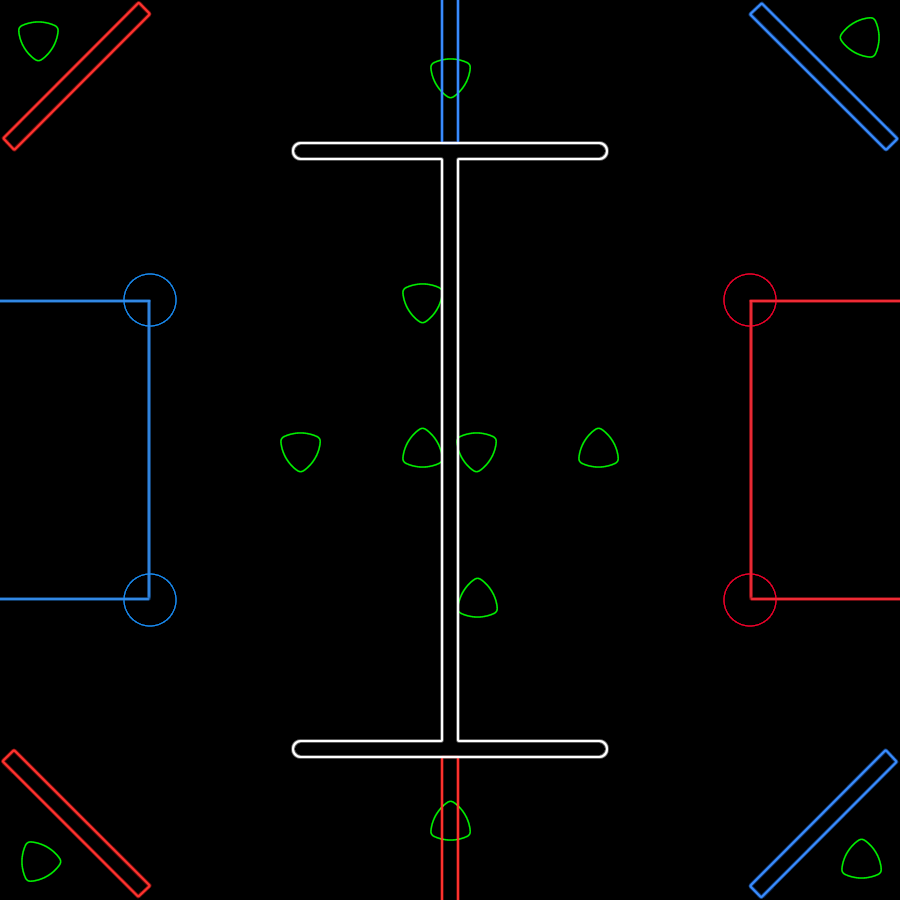
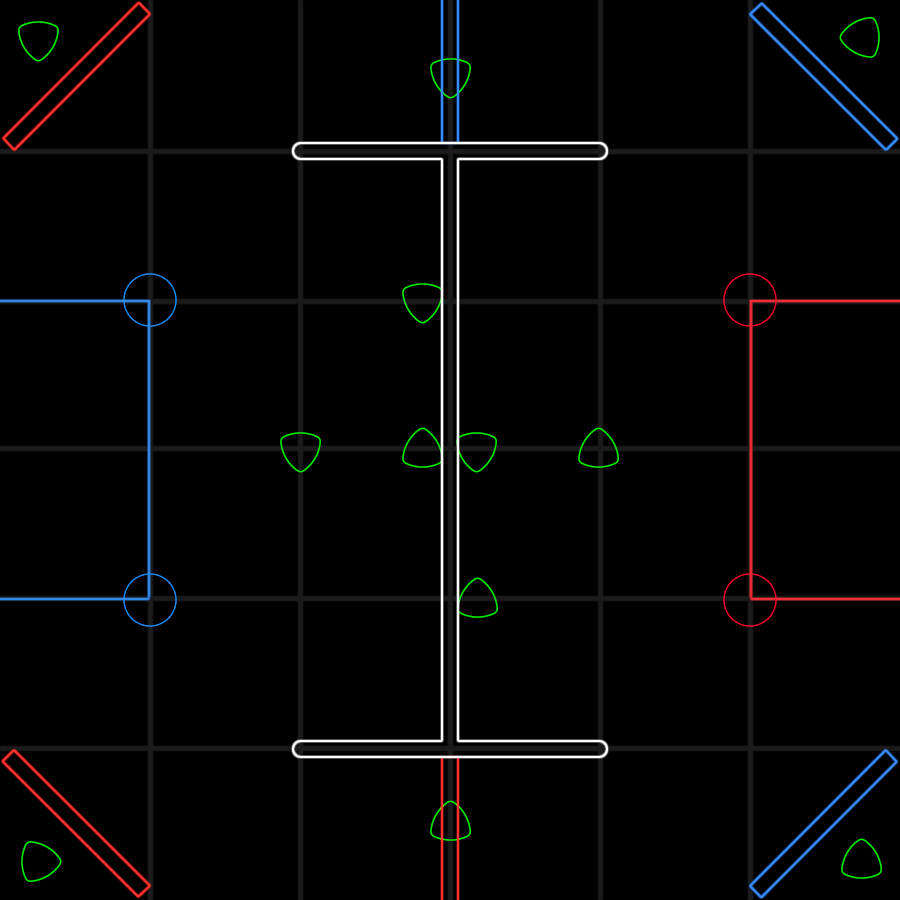
bot starting position working

diff --git a/main.py b/main.py
@@ -297,6 +297,18 @@ def detectClosestPoint(): # function to detect which point on the field is close
             if dist(dot[0], mousePos) < 0.01 and pointSelected == None:
                 pointSelected = index
 
+def drawRobot(position, direction):
+    distance = 12.042 / 144
+    fr = 0.84415
+    fl = 2.29743
+    br = -0.84415
+    bl = -2.29743
+    leftBack = convertCoords([position[0] + distance * cos(bl + direction + pi/2), position[1] + distance * sin(bl + direction + pi/2)], "f")
+    rightBack = convertCoords([position[0] + distance * cos(br + direction + pi/2), position[1] + distance * sin(br + direction + pi/2)], "f")
+    leftFront = convertCoords([position[0] + distance * cos(fl + direction + pi/2), position[1] + distance * sin(fl + direction + pi/2)], "f")
+    rightFront = convertCoords([position[0] + distance * cos(fr + direction + pi/2), position[1] + distance * sin(fr + direction + pi/2)], "f")
+    pygame.draw.polygon(screen, (50, 50, 50), [leftBack, rightBack, rightFront, leftFront], 3)
+
 def generateOutput(): # generates a text file that contains the path data
     if version == "bezier":
         output = open("output.txt", "w")
@@ -445,6 +457,7 @@ while running:
 
     ### Draws Curves ###
     if version == "bezier":
+        drawRobot(position = points[0][1], direction = dir(points[0][1], points[0][2]))
         reverse = initialReverse
         totalCurve = []
         totalThetas = []
